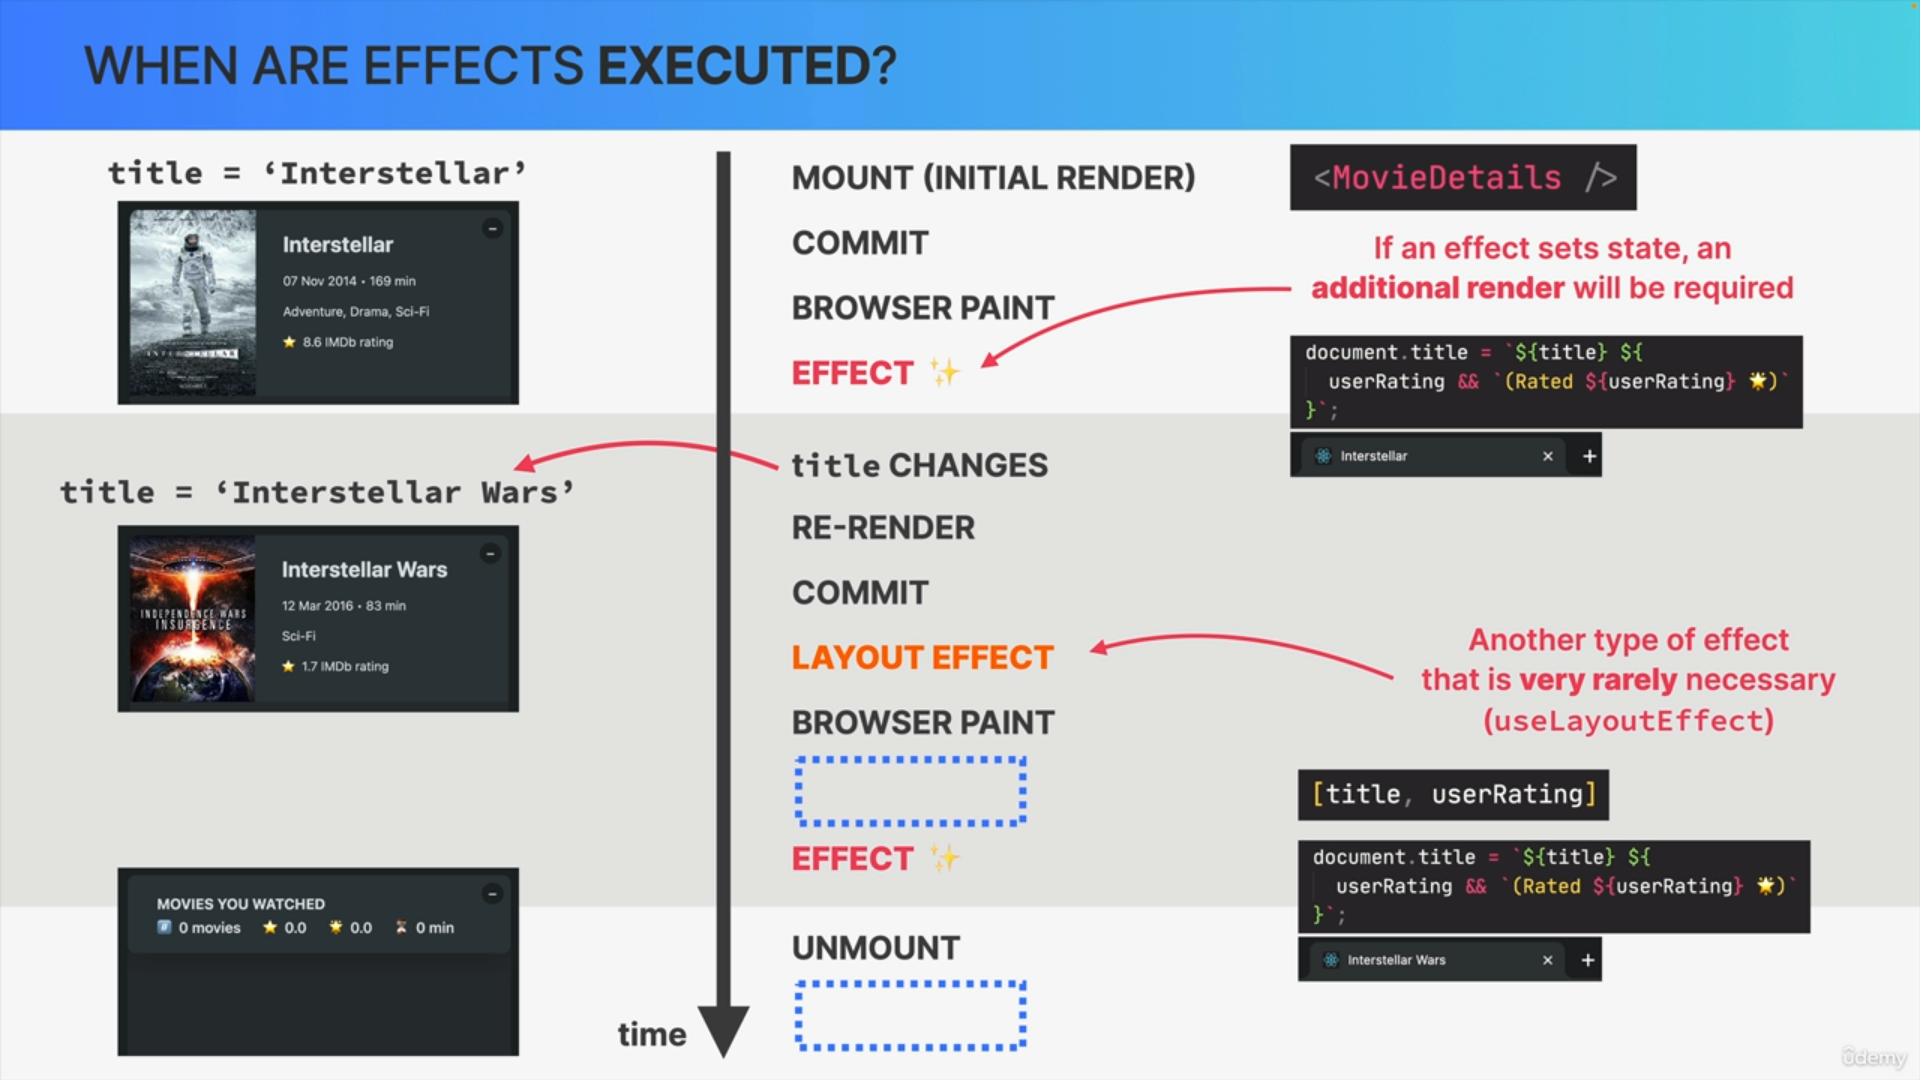
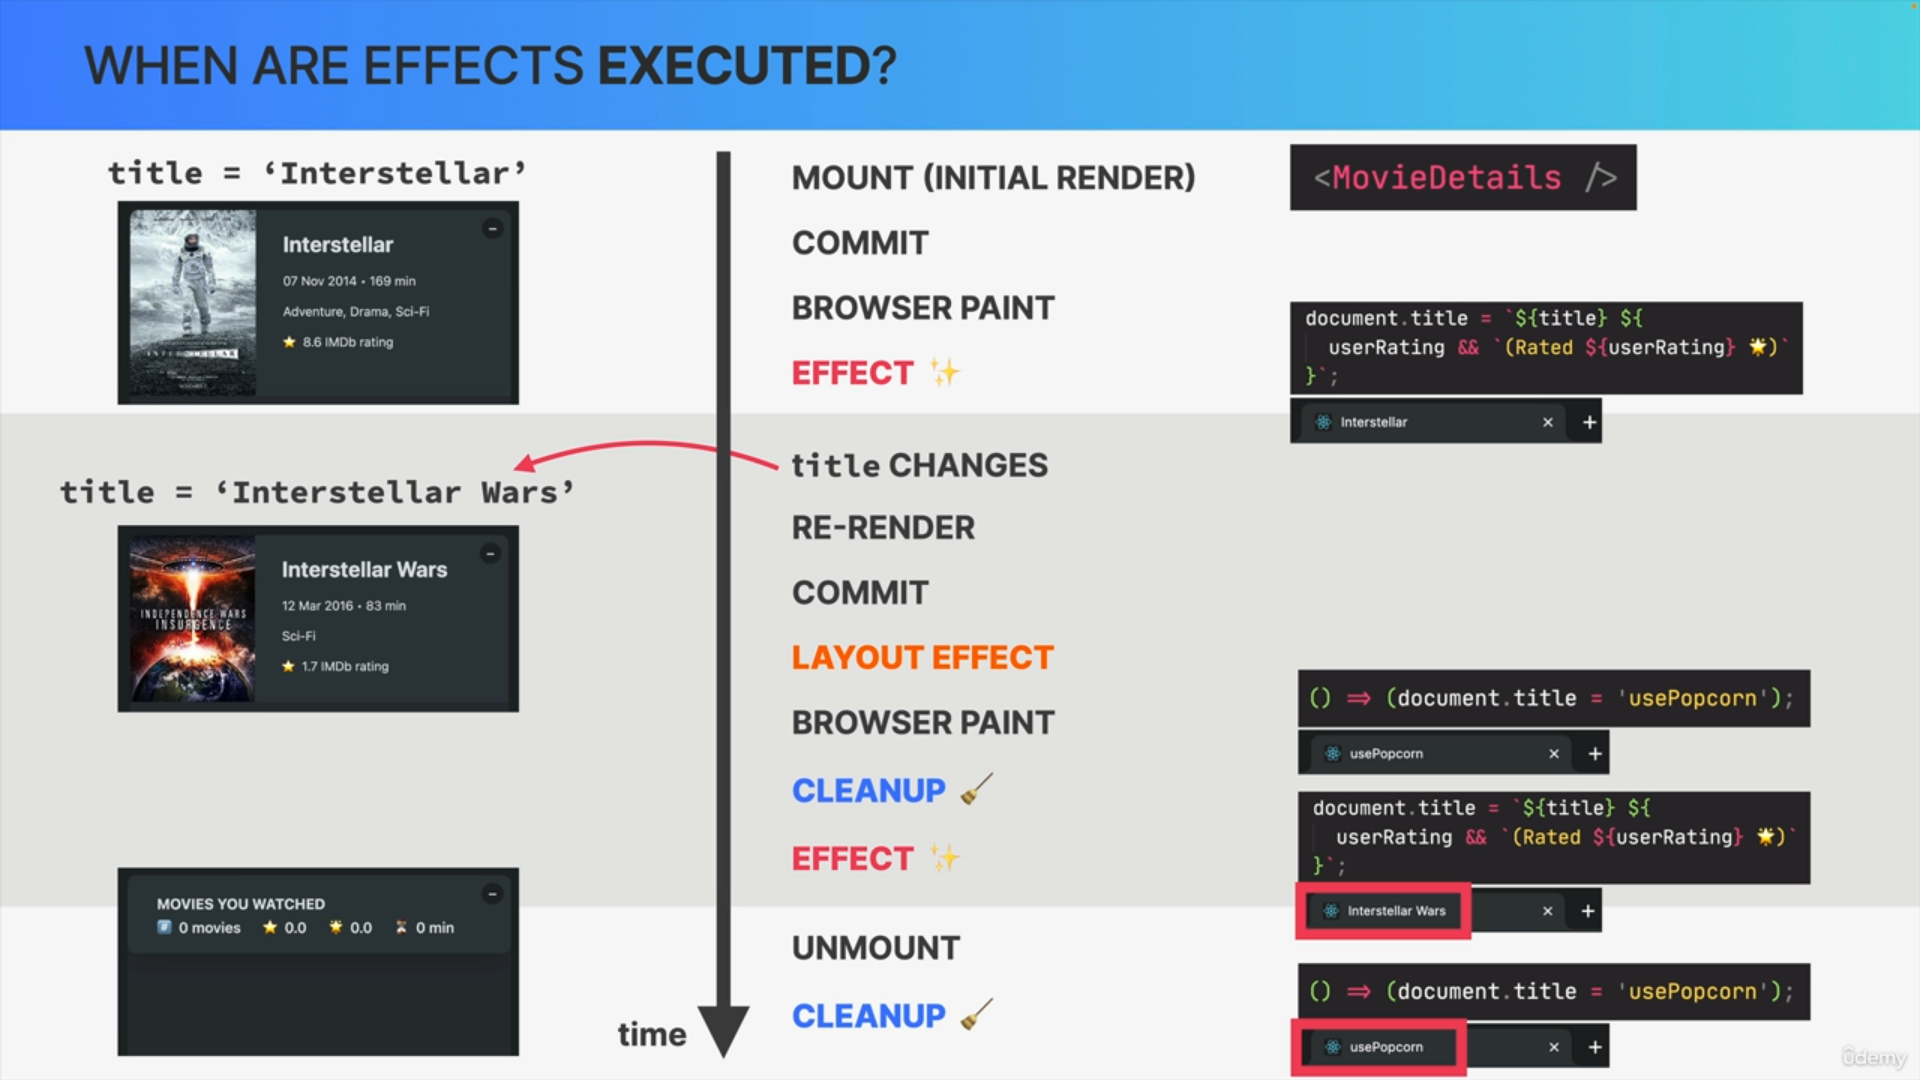
re-arrangement + clean up function

diff --git a/16 ReactJs/__Documentation_React.md b/16 ReactJs/__Documentation_React.md
@@ -821,64 +821,201 @@ export default App;
 
 ![Image](./images/react-3rd-party-library.png)
 
-## 📘useEffect
 
-![image](./images/create-side-effect.png)
+# 📔Effects and Data Fetching
 
-![image](./images/event-handler-vs-useeffect.png)
+## 📘Component lifecycle
+* Major point is here that component life cycle is totally depend upon **useEffect**
+* **useEffect** works only after the **painting on the browser** because if we Making an API request may cause the browser to become unresponsive until it receives a response from the server.
 
 
-## Handling Error 
+![Image](./images/component-life-cyle.png)
 
-* Go to the network tab
-* Select **Slow 3g** option first
-* while calling the option select **offline** option
+---
 
+## 📘SideEffect
+
+![Image](./images/side-effect-in-react.png)
+
+![Image](./images/side-effect-in-react-1.png)
+
+* Use **useEffect** with **async/await** method
 ```js
-import React, { useState } from 'react'
-import './App.css';
+import React, { useEffect } from 'react';
+import "./App.css";
+function App() {
 
-const App = () => {
-  const [data, setData] = useState([]);
-  const [isLoading, setIsLoading] = useState(true);
-  const [message, setMessage] = useState('Loading...');
-
-  const getData = async () => {
-    try {
-      let newData = await fetch('https://jsonplaceholder.typicode.com/posts');
-
-      if (!newData.ok) {
-        throw new Error("Failed to fetch data")
-      }
-
-      newData = await newData.json();
-      setData(newData)
-      setIsLoading(false);
-    } catch (err) {
-      console.log('Api response failed')
-      setMessage(err.message)
-    }
-  }
-
-  useState(() => {
-    getData();
+  useEffect(() => {
+    (async function () {
+      let data = await fetch('https://jsonplaceholder.typicode.com/posts');
+      data = await data.json();
+      console.log(data);
+    }()
+    )
   }, [])
 
-  return (isLoading ? <h1> {message}</h1 > :
-    <div>
-      {data.map(item => {
-        return (<li key={item.id}>id : {item.id} &  body : {item.body}</li>)
-      })}
-    </div>
-  )
+  return null;
 }
 
-export default App
+export default App;
+```
+---
+
+## 📘Error Handling in useEffect
+* when ever your do any kind of **api** call you always must do **Error Handling**, always use **try-catch**
+* When ever user **Lost Internet Connection**
+* **1xx, 2xx, 3xx, 4xx, 5xx** Errors
+```js
+import { useEffect, useState } from 'react';
+import "./App.css";
+function App() {
+  const [loading, setLoading] = useState(false);
+  const [posts, setPosts] = useState([]);
+  const [error, setError] = useState('');
+
+  useEffect(() => {
+    (async function () {
+      setLoading(true);
+
+      try {
+        let result = await fetch('https://jsonplaceholder.typicode.com/posts/9087');
+
+        if (!result.ok) throw new Error("Something went wrong with fetching posts")
+
+        let data = await result.json();
+        setPosts(data);
+        setError('');
+      } catch (error) {
+        setError(error.message);
+      } finally {
+        setLoading(false);
+      }
+    }()
+    )
+  }, [])
+
+  return <div>
+    {loading && <h2>Loading...</h2>}
+    {!loading && !error && posts.length > 0 ? <ul>
+      {posts.map(item => {
+        return (<li key={item.id}>{item.title}</li>)
+      })}
+    </ul> : null}
+
+    {error && <h2> {error}</h2>}
+
+  </div>;
+}
+export default App;
+```
+---
+
+
+
+## 📘Dependency Array
+![Image](./images/dependency-array.png)
+
+![Image](./images/dependency-array-1.png)
+
+![Image](./images/dependency-array-2.png)
+
+![Image](./images/dependency-array-3.png)
+
+
+Example : How useEffect Works after painting
+
+```js
+import { useEffect } from 'react';
+import "./App.css";
+function App() {
+
+  // render on initial render
+  useEffect(() => {
+    console.log('A');
+  }, [])
+
+  // render on every sideEffect
+  useEffect(() => {
+    console.log('B');
+  })
+
+  // render on every render
+  // it will print first because it render first in browser hence its a render logic
+  console.log('C');
+  return null;
+}
+
+export default App;
+
+/*output
+// initial render
+C   
+A
+B
+
+// on Every Render
+C
+B
+*/
 ```
 
-![Image](./images/effects-are-called.png)
+---
+
+## 📘Clean-up Function
 
 ![Image](./images/cleanup-function.png)
+
+
+
+---
+
+
+
+
+
+
+
+
+
+
+
+
+
+
+
+
+
+
+
+
+
+
+
+
+
+
+
+
+
+
+
+
+
+
+
+
+
+
+
+
+
+
+
+
+
+
+
+
 
 ## 📘Hooks
 
@@ -984,102 +1121,6 @@ const App = () => {
 export default App
 ```
 ---
-
-# 📔Effects and Data Fetching
-
-## 📘Component lifecycle
-* Major point is here that component life cycle is totally depend upon **useEffect**
-* **useEffect** works only after the **painting on the browser** because if we Making an API request may cause the browser to become unresponsive until it receives a response from the server.
-
-
-![Image](./images/component-life-cyle.png)
-
-## 📘SideEffect
-
-![Image](./images/side-effect-in-react.png)
-
-![Image](./images/side-effect-in-react-1.png)
-
-* Use **useEffect** with **async/await** method
-```js
-import React, { useEffect } from 'react';
-import "./App.css";
-function App() {
-
-  useEffect(() => {
-    (async function () {
-      let data = await fetch('https://jsonplaceholder.typicode.com/posts');
-      data = await data.json();
-      console.log(data);
-    }()
-    )
-  }, [])
-
-  return null;
-}
-
-export default App;
-```
-## 📘Error Handling in useEffect
-* when ever your do any kind of **api** call you always must do **Error Handling**, always use **try-catch**
-* When ever user **Lost Internet Connection**
-* **1xx, 2xx, 3xx, 4xx, 5xx** Errors
-```js
-import { useEffect, useState } from 'react';
-import "./App.css";
-function App() {
-  const [loading, setLoading] = useState(false);
-  const [posts, setPosts] = useState([]);
-  const [error, setError] = useState('');
-
-  useEffect(() => {
-    (async function () {
-      setLoading(true);
-
-      try {
-        let result = await fetch('https://jsonplaceholder.typicode.com/posts/9087');
-
-        if (!result.ok) throw new Error("Something went wrong with fetching posts")
-
-        let data = await result.json();
-        setPosts(data);
-        setError('');
-      } catch (error) {
-        setError(error.message);
-      } finally {
-        setLoading(false);
-      }
-    }()
-    )
-  }, [])
-
-  return <div>
-    {loading && <h2>Loading...</h2>}
-    {!loading && !error && posts.length > 0 ? <ul>
-      {posts.map(item => {
-        return (<li key={item.id}>{item.title}</li>)
-      })}
-    </ul> : null}
-
-    {error && <h2> {error}</h2>}
-
-  </div>;
-}
-export default App;
-```
-
-## 📘Dependency Array
-![Image](./images/dependency-array.png)
-
-![Image](./images/dependency-array-1.png)
-
-![Image](./images/dependency-array-2.png)
-
-![Image](./images/dependency-array-3.png)
-
-
-
-
 ## 📘Custom Hooks
 ![Image](./images/custome-hook.png)
 
